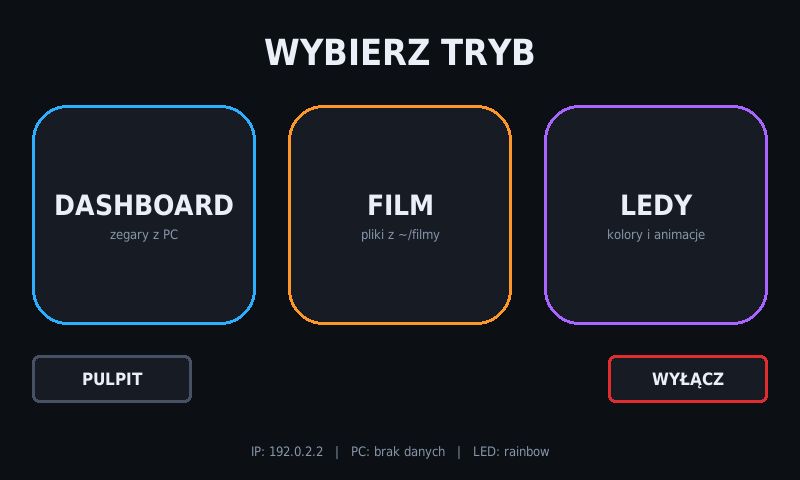
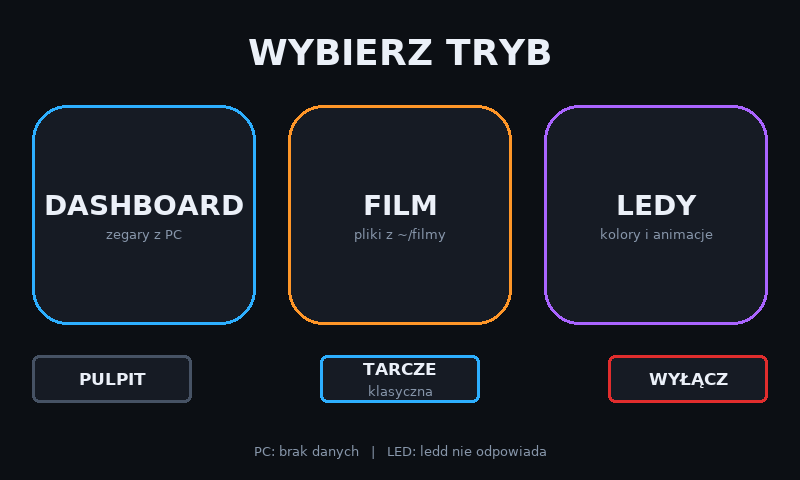
Menu bez IP; oscyloskop: wykres nie zasłania opisów
Claude-Session: https://claude.ai/code/session_01SJ172hZnLi65Yioqz2Sdbv

diff --git a/raspberry/layouts.py b/raspberry/layouts.py
@@ -804,56 +804,81 @@ def draw_warp(s, d, now, dt):
 # ---------------------------------------------------------------------------
 def draw_scope(s, d, now, dt):
     w, h = s.get_size()
-    scr = pygame.Rect(int(w * 0.03), int(h * 0.05), int(w * 0.68), int(h * 0.88))
+    scr = pygame.Rect(int(w * 0.03), int(h * 0.05), int(w * 0.66), int(h * 0.90))
+    strip = int(h * 0.075)
+    # wykres rysuje się tylko w "plot" - górny i dolny pasek z opisami są zawsze czytelne
+    plot = pygame.Rect(scr.x, scr.y + strip, scr.w, scr.h - 2 * strip)
     green = (80, 255, 140)
+    ch1, ch2 = (255, 220, 60), (60, 210, 255)
+    px = int(w * 0.74)
+    lbl_size = min(h * 0.03, w * 0.018)
+    val_size = min(h * 0.055, w * 0.032)
+    labels = ("CH1  RPM", "CH2  SPEED", "VMAX", "LAP", "LAST", "BEST", "DELTA")
+    step_y = 0.13
 
     def bg(b, w, h):
         b.fill((26, 28, 30))
         pygame.draw.rect(b, (60, 64, 70), scr.inflate(14, 14), border_radius=14)
         pygame.draw.rect(b, (4, 16, 8), scr, border_radius=8)
-        radial_fill(b, scr.center, scr.w * 0.6, (8, 30, 14), (4, 16, 8), 6)
-        b.set_clip(scr)
-        for i in range(1, 10):
-            x = scr.x + scr.w * i // 10
-            pygame.draw.line(b, (16, 60, 30), (x, scr.y), (x, scr.bottom), 1)
-        for i in range(1, 8):
-            y = scr.y + scr.h * i // 8
-            pygame.draw.line(b, (16, 60, 30), (scr.x, y), (scr.right, y), 1)
-        pygame.draw.line(b, (30, 100, 50), (scr.x, scr.centery), (scr.right, scr.centery), 1)
-        pygame.draw.line(b, (30, 100, 50), (scr.centerx, scr.y), (scr.centerx, scr.bottom), 1)
-        for i in range(50):
-            x = scr.x + scr.w * i // 50
-            pygame.draw.line(b, (30, 100, 50), (x, scr.centery - 4), (x, scr.centery + 4), 1)
+        b.set_clip(plot)
+        radial_fill(b, plot.center, plot.w * 0.6, (8, 30, 14), (4, 16, 8), 6)
         b.set_clip(None)
-        px = int(w * 0.75)
-        for i, lbl in enumerate(("CH1  RPM", "CH2  SPEED", "VMAX", "LAP", "LAST", "BEST", "DELTA")):
-            text(b, lbl, "mono", h * 0.03, (140, 150, 150), (px, int(h * (0.06 + i * 0.13))), "topleft")
-        pygame.draw.rect(b, (255, 220, 60), (px - 12, int(h * 0.07), 6, int(h * 0.03)))
-        pygame.draw.rect(b, (60, 210, 255), (px - 12, int(h * 0.20), 6, int(h * 0.03)))
+        for r in (pygame.Rect(scr.x, scr.y, scr.w, strip), pygame.Rect(scr.x, plot.bottom, scr.w, strip)):
+            pygame.draw.rect(b, (2, 10, 5), r, border_radius=8)
+        b.set_clip(plot)
+        for i in range(1, 10):
+            x = plot.x + plot.w * i // 10
+            pygame.draw.line(b, (16, 60, 30), (x, plot.y), (x, plot.bottom), 1)
+        for i in range(1, 8):
+            y = plot.y + plot.h * i // 8
+            pygame.draw.line(b, (16, 60, 30), (plot.x, y), (plot.right, y), 1)
+        pygame.draw.line(b, (30, 100, 50), (plot.x, plot.centery), (plot.right, plot.centery), 1)
+        pygame.draw.line(b, (30, 100, 50), (plot.centerx, plot.y), (plot.centerx, plot.bottom), 1)
+        for i in range(50):
+            x = plot.x + plot.w * i // 50
+            pygame.draw.line(b, (30, 100, 50), (x, plot.centery - 4), (x, plot.centery + 4), 1)
+        b.set_clip(None)
+        pygame.draw.line(b, (30, 100, 50), (plot.x, plot.y), (plot.right, plot.y), 1)
+        pygame.draw.line(b, (30, 100, 50), (plot.x, plot.bottom), (plot.right, plot.bottom), 1)
+        ty = scr.y + strip // 2
+        x = scr.x + 12
+        for col, name in ((ch1, "CH1 RPM"), (ch2, "CH2 SPEED")):
+            pygame.draw.line(b, col, (x, ty), (x + 22, ty), 3)
+            r = text(b, name, "mono", lbl_size, col, (x + 30, ty), "midleft")
+            x = r.right + 24
+        text(b, "1 s/div   TRIG AUTO   RUN", "mono", lbl_size, green, (scr.x + 12, plot.bottom + strip // 2), "midleft")
+        for i, lbl in enumerate(labels):
+            text(b, lbl, "mono", lbl_size, (140, 150, 150), (px, int(h * (0.06 + i * step_y))), "topleft")
+        pygame.draw.rect(b, ch1, (px - 12, int(h * 0.065), 6, int(lbl_size)))
+        pygame.draw.rect(b, ch2, (px - 12, int(h * (0.065 + step_y)), 6, int(lbl_size)))
 
     s.blit(cached_bg("scope", (w, h), bg), (0, 0))
-    s.set_clip(scr)
-    ry = scr.y + scr.h * (1 - clamp(d.redline / d.rpm_max, 0, 1) * 0.9 - 0.05)
-    for x in range(scr.x, scr.right, 14):
-        pygame.draw.line(s, (120, 40, 30), (x, ry), (x + 7, ry), 1)
-    for hist, col in ((d.hist_speed, (60, 210, 255)), (d.hist_rpm, (255, 220, 60))):
+
+    def ypos(v):
+        return plot.y + plot.h * (1 - clamp(v, 0, 1.0) * 0.92 - 0.04)
+
+    s.set_clip(plot)
+    ry = ypos(clamp(d.redline / d.rpm_max, 0, 1))
+    for x in range(plot.x, plot.right, 14):
+        pygame.draw.line(s, (130, 40, 30), (x, ry), (x + 7, ry), 1)
+    for hist, col in ((d.hist_speed, ch2), (d.hist_rpm, ch1)):
         n = len(hist)
         if n > 2:
-            step = scr.w / (hist.maxlen - 1)
-            x0 = scr.right - (n - 1) * step
-            pts = [(x0 + i * step, scr.y + scr.h * (1 - clamp(v, 0, 1.05) * 0.9 - 0.05)) for i, v in enumerate(hist)]
+            step = plot.w / (hist.maxlen - 1)
+            x0 = plot.right - 6 - (n - 1) * step
+            pts = [(x0 + i * step, ypos(v)) for i, v in enumerate(hist)]
             pygame.draw.lines(s, lerp((4, 16, 8), col, 0.35), False, pts, 5)
             pygame.draw.lines(s, col, False, pts, 2)
-            pygame.draw.circle(s, (255, 255, 255), (int(pts[-1][0]) - 3, int(pts[-1][1])), 4)
+            pygame.draw.circle(s, (255, 255, 255), (int(pts[-1][0]), int(pts[-1][1])), 4)
     s.set_clip(None)
-    text(s, "50ms/div   2V/div   TRIG AUTO", "mono", h * 0.028, green, (scr.x + 10, scr.bottom - 8), "bottomleft")
+    if d.rpm_frac >= 0.98 and int(now * 6) % 2 == 0:
+        text(s, "REDLINE", "mono", lbl_size, (255, 80, 60), (scr.right - 12, plot.bottom + strip // 2), "midright")
 
-    px = int(w * 0.75)
-    vals = [(fmt_int(d.rpm), (255, 220, 60)), (f"{fmt_int(d.speed)} {d.unit}", (60, 210, 255)),
+    vals = [(fmt_int(d.rpm), ch1), (f"{fmt_int(d.speed)} {d.unit}", ch2),
             (f"{int(d.vmax)}", green), (str(d.lap), green), (fmt_lap(d.last), green),
             (fmt_lap(d.best), green), (fmt_delta(d.delta), delta_color(d.delta, green, (255, 80, 60), green))]
     for i, (v, col) in enumerate(vals):
-        text(s, v, "mono", h * 0.055, col, (px, int(h * (0.095 + i * 0.13))), "topleft")
+        text(s, v, "mono", val_size, col, (px, int(h * (0.06 + i * step_y) + lbl_size * 1.15)), "topleft")
 
 
 # ---------------------------------------------------------------------------

diff --git a/raspberry/launcher.py b/raspberry/launcher.py
@@ -203,15 +203,6 @@ def format_lap_time(sec):
     return f"{minutes:02d}:{seconds:02d}.{ms:03d}"
 
 
-def get_ip():
-    try:
-        out = subprocess.run(["hostname", "-I"], capture_output=True, text=True, timeout=1).stdout.split()
-        out = [a for a in out if ":" not in a]  # tylko IPv4
-        return ", ".join(out) if out else "brak sieci"
-    except Exception:
-        return "?"
-
-
 # ---------------------------------------------------------------------------
 # Dashboard - stan i rysowanie (logika z dotychczasowego skryptu RPi)
 # ---------------------------------------------------------------------------
@@ -429,8 +420,6 @@ class App:
         self.confirm_off_until = 0.0
         self.message = ""
         self.message_until = 0.0
-        self.ip = get_ip()
-        self.ip_time = time.time()
 
         self.sock = socket.socket(socket.AF_INET, socket.SOCK_DGRAM)
         self.sock.setsockopt(socket.SOL_SOCKET, socket.SO_REUSEADDR, 1)
@@ -551,9 +540,6 @@ class App:
         self.stop_film()
         self.mode = "menu"
         self.active_slider = None
-        if time.time() - self.ip_time > 5:
-            self.ip = get_ip()
-            self.ip_time = time.time()
 
     def go_dash(self):
         self.stop_film()
@@ -955,7 +941,7 @@ class App:
                     self.power_off, color=REDLINE_COLOR, font=font_small, active=confirm)
 
         pc_ok = now - self.last_data < DATA_TIMEOUT
-        status = (f"IP: {self.ip}   |   PC: {'dane OK' if pc_ok else 'brak danych'}   |   "
+        status = (f"PC: {'dane OK' if pc_ok else 'brak danych'}   |   "
                   f"LED: {self.led_state['mode'] if self.led_online else 'ledd nie odpowiada'}")
         s = render_fit(font_tiny, status, SUBTEXT_COLOR, W - 20)
         screen.blit(s, s.get_rect(center=(W // 2, int(H * 0.94))))
